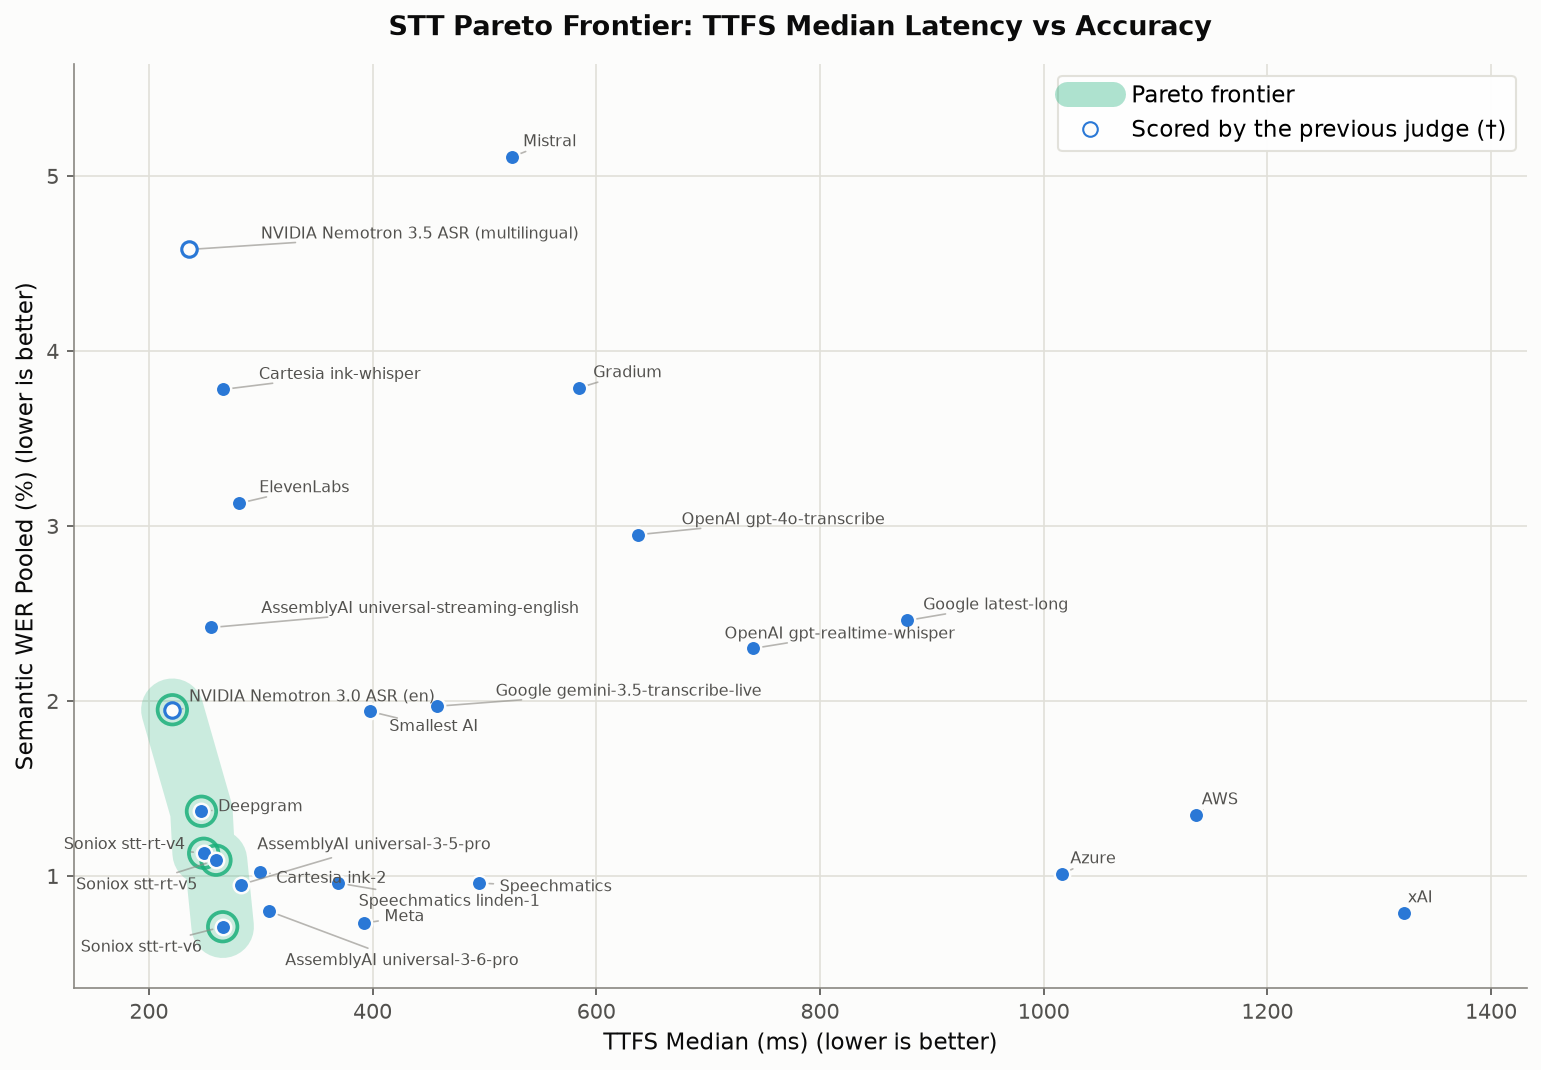
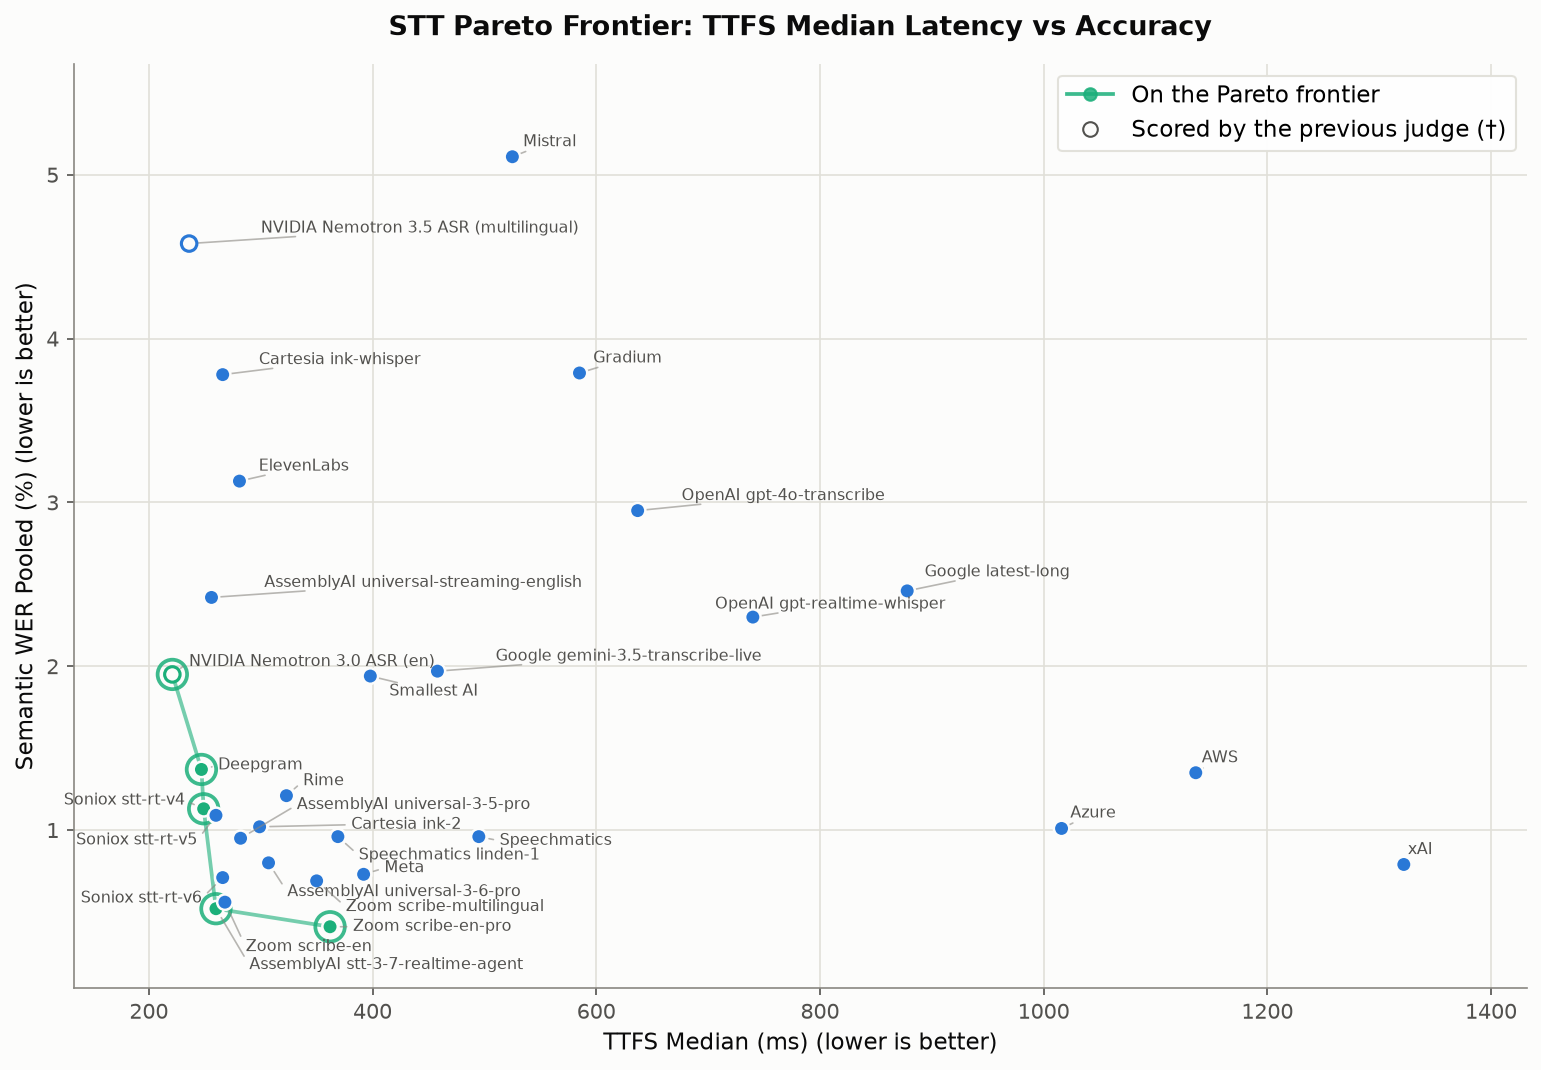
Add results for Zoom, Rime and AssemblyAI 3.7
1,000 samples each for the three Zoom models, Rime and
assemblyai-stt-3-7-realtime-agent, with the charts regenerated.

diff --git a/README.md b/README.md
@@ -27,8 +27,9 @@ Benchmark results on 1000 samples from the `pipecat-ai/smart-turn-data-v3.1-trai
 <!-- RESULTS_TABLE:START -->
 | Vendor | Model | Transcripts | Perfect | WER Mean | Pooled WER | TTFS Median | TTFS P95 | TTFS P99 |
 |--------|-------|-------------|---------|----------|------------|-------------|----------|----------|
-| AssemblyAI | universal-3-6-pro | 99.9% | 88.7% | 0.89% | 0.80% | 307ms | 401ms | 498ms |
+| AssemblyAI | assemblyai-stt-3-7-realtime-agent | 99.9% | 91.4% | 0.61% | 0.52% | 260ms | 299ms | 321ms |
 | AssemblyAI | universal-3-5-pro | 99.9% | 86.0% | 1.12% | 0.95% | 282ms | 354ms | 393ms |
+| AssemblyAI | universal-3-6-pro | 99.9% | 88.7% | 0.89% | 0.80% | 307ms | 401ms | 498ms |
 | AssemblyAI | universal-streaming-english | 99.8% | 66.8% | 2.81% | 2.42% | 256ms | 362ms | 417ms |
 | AWS | N/A | 100.0% | 79.1% | 1.26% | 1.35% | 1136ms | 1527ms | 1897ms |
 | Azure | N/A | 100.0% | 83.5% | 0.98% | 1.01% | 1016ms | 1345ms | 1791ms |
@@ -45,6 +46,7 @@ Benchmark results on 1000 samples from the `pipecat-ai/smart-turn-data-v3.1-trai
 | NVIDIA | Nemotron 3.5 ASR (multilingual) | 99.6% | 62.0% | 4.54%† | 4.58%† | 236ms | 253ms | 266ms |
 | OpenAI | gpt-4o-transcribe | 99.3% | 75.7% | 3.10% | 2.95% | 637ms | 965ms | 1655ms |
 | OpenAI | gpt-realtime-whisper | 100.0% | 73.3% | 2.41% | 2.30% | 740ms | 878ms | 1080ms |
+| Rime | N/A | 100.0% | 82.5% | 1.25% | 1.21% | 323ms | 381ms | 415ms |
 | Smallest AI | pulse | 100.0% | 74.0% | 1.85% | 1.94% | 398ms | 533ms | 1593ms |
 | Soniox | stt-rt-v6 | 99.9% | 88.8% | 0.74% | 0.71% | 266ms | 324ms | 343ms |
 | Soniox | stt-rt-v4 | 99.8% | 83.2% | 1.04% | 1.13% | 249ms | 281ms | 310ms |
@@ -52,6 +54,9 @@ Benchmark results on 1000 samples from the `pipecat-ai/smart-turn-data-v3.1-trai
 | Speechmatics | linden-1 | 99.5% | 83.9% | 1.11% | 0.96% | 369ms | 438ms | 690ms |
 | Speechmatics | N/A | 99.7% | 83.1% | 1.17% | 0.96% | 495ms | 676ms | 736ms |
 | xAI | grok-voice-transcribe-2.0 | 99.8% | 89.4% | 1.12% | 0.79% | 1322ms | 1895ms | 2148ms |
+| Zoom | zoom-scribe-en | 99.4% | 91.1% | 0.65% | 0.56% | 268ms | 368ms | 414ms |
+| Zoom | zoom-scribe-en-pro | 100.0% | 93.5% | 0.54% | 0.41% | 362ms | 572ms | 655ms |
+| Zoom | zoom-scribe-multilingual | 99.5% | 90.2% | 0.74% | 0.69% | 350ms | 526ms | 631ms |
 <!-- RESULTS_TABLE:END -->
 
 Small WER differences aren't meaningful on this data. Among the most accurate services, differences of less than about 0.25 percentage points are within the 95% confidence interval from bootstrap resampling of the benchmark samples, so those services can't be reliably ranked against each other; the margin is wider for less accurate services.
@@ -66,7 +71,7 @@ Small WER differences aren't meaningful on this data. Among the most accurate se
 
 ![STT Service Pareto Frontier - Median](assets/stt_pareto_frontier.png)
 
-The Pareto frontier shows services that offer the best trade-off between latency and accuracy—no other service is better on both metrics. Services on the frontier represent efficient choices depending on your priorities.
+The Pareto frontier shows services that offer the best trade-off between latency and accuracy—no other service is better on both metrics. Services on the frontier represent efficient choices depending on your priorities. They are drawn in green and joined by a line; a blue point is not on the frontier, however close it sits to one that is.
 
 Each point is a service's pooled WER. Points close together on the WER axis may not differ meaningfully; see the note under the [results table](#results-summary).
 
